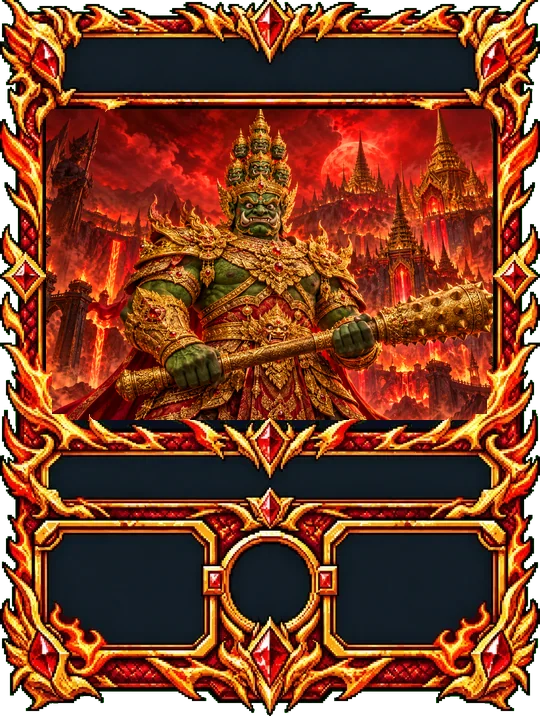
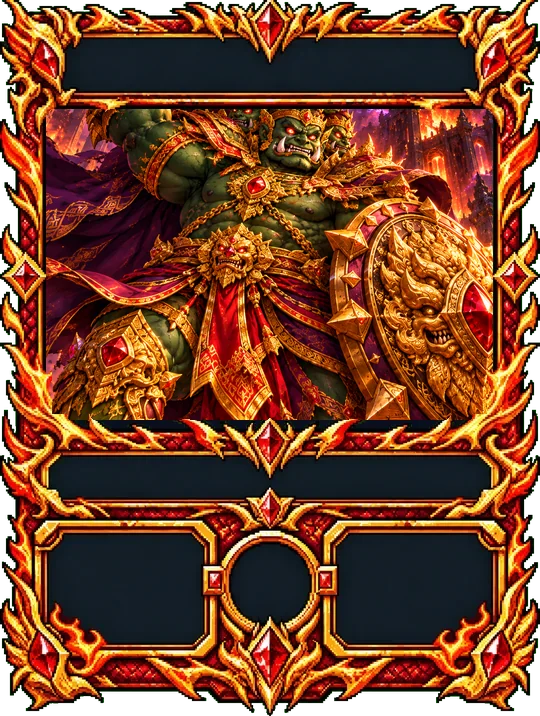
r16 (not live): new 16-frame models h27 h29 h30 h31 + card art; tools/r16sheet.py
Claude-Session: https://claude.ai/code/session_01Bp1sPxqqDbGY3tv9tHr9QV

diff --git a/tools/r16sheet.py b/tools/r16sheet.py
@@ -1,0 +1,81 @@
+# 16-frame remake (Oct 2026): new card models from GPT.
+# Sources: tools/r16_in/<id>/{idle,walk,attack,front}.png = 4x4 sheets on magenta (side views facing RIGHT), art.png = painted card art.
+# Output: spr/<id>.webp = 16 columns x 4 rows of 252x204 cells (idle, walk, attack, front), the game marks these cards f16;
+# art/<id>.webp + cards/<id>.webp through cardsheet.py's faces() when art.png exists.
+# GPT grids are not exact, so the cuts between frames are found from the empty gaps; spill from a neighbour frame is dropped,
+# and what is left is faded at the cell edge so an effect never ends in a hard line.
+import sys,os,glob,numpy as np
+from PIL import Image
+from scipy import ndimage as nd
+P='/home/claude/r16/';U=P+'tools/r16_in/'
+src=open(P+'tools/monsheet2.py').read().split("TINT={")[0];ns={};exec(src,ns);key=ns['key']
+CW,CH,BASE=252,204,196
+CARDS={'h29':('SL',158),'h30':('SL',176),'h31':('SL',160),'h27':('SL',170)}
+FIX={'h30':{'idle':{1:0,3:4}}}   # 0-based frames to replace with another frame (glitched faces)
+def depink(rgba):
+    a=rgba.astype(int);r,g,b=a[...,0],a[...,1],a[...,2]
+    pink=(r>170)&(b>g+40)&(r>g+50)&(r>=b-25)   # magenta glow left over from the background (halos, auras); indigo scales are not touched
+    a[...,2]=np.where(pink,np.minimum(b,g+10),b);a[...,0]=np.where(pink,np.maximum(r,230),r);a[...,1]=np.where(pink,np.maximum(g,(r+g)//2),g)
+    return a.astype('uint8')
+def cuts(prof,n,L):
+    sm=np.convolve(prof,np.ones(9)/9,'same');out=[0]
+    for k in range(1,n):
+        c=round(k*L/n);w=round(L/n*.18);lo,hi=c-w,c+w;out.append(lo+int(np.argmin(sm[lo:hi])))
+    out.append(L);return out
+def frames(path,mirror):
+    rgba=depink(key(Image.open(path)));al=rgba[...,3]>40;H,W=al.shape
+    rc=cuts(al.sum(1),4,H);out=[]
+    for r in range(4):
+        band=al[rc[r]:rc[r+1]];cc=cuts(band.sum(0),4,W)
+        for c in range(4):
+            x=rgba[rc[r]:rc[r+1],cc[c]:cc[c+1]].copy();m=x[...,3]>40;lab,n=nd.label(nd.binary_dilation(m,iterations=2)&m|m)
+            if n>1:
+                sz=nd.sum(m,lab,range(1,n+1));big=int(np.argmax(sz))+1;h,w=m.shape
+                for i in range(1,n+1):
+                    if i==big:continue
+                    ys,xs=np.where(lab==i);cy,cx=ys.mean(),xs.mean()
+                    edge=(xs.min()<3 and cx<w*.22) or (xs.max()>w-4 and cx>w*.78) or (ys.min()<3 and cy<h*.18) or (ys.max()>h-4 and cy>h*.85)
+                    if edge and sz[i-1]<sz[big-1]*.45:x[lab==i]=0
+            h,w=x.shape[:2];f=np.ones((h,w));E=10
+            for k in range(E):
+                v=(k+1)/(E+1);f[k,:]=np.minimum(f[k,:],v);f[h-1-k,:]=np.minimum(f[h-1-k,:],v);f[:,k]=np.minimum(f[:,k],v);f[:,w-1-k]=np.minimum(f[:,w-1-k],v)
+            x[...,3]=(x[...,3]*f).astype('uint8')
+            if mirror:x=x[:,::-1].copy()
+            out.append((r,x))
+    return out
+def bbox(c):
+    ys,xs=np.where(c[...,3]>40);return xs.min(),xs.max(),ys.min(),ys.max()
+def torso(c):
+    x0,x1,y0,y1=bbox(c);m=c[y0:y0+int((y1-y0)*.6),:,3]>40;return np.where(m)[1].mean()
+def build(id,th):
+    D=U+id+'/';rows=[frames(D+'idle.png',True),frames(D+'walk.png',True),frames(D+'attack.png',True),frames(D+'front.png',False)]
+    for nm,mp in FIX.get(id,{}).items():
+        i={'idle':0,'walk':1,'attack':2,'front':3}[nm]
+        for a,b in mp.items():rows[i][a]=rows[i][b]
+    def scale(fr):
+        bb=[bbox(c) for _,c in fr];return min(th/np.median([b[3]-b[2] for b in bb]),236/np.median([b[1]-b[0] for b in bb]))
+    side=scale(rows[1]);fsc=scale(rows[3])
+    out=Image.new('RGBA',(CW*16,CH*4),(0,0,0,0));clip=0
+    for R,fr in enumerate(rows):
+        s=fsc if R==3 else side
+        # one horizontal offset for the whole row (frame 1's torso to the middle), so a lunge still moves forward;
+        # one vertical offset per GPT row band (its median feet on the floor line), since GPT rows are not evenly placed
+        dx=CW/2-torso(fr[0][1])*s
+        feet={}
+        for g,c in fr:feet.setdefault(g,[]).append(bbox(c)[3])
+        for k,(g,c) in enumerate(fr):
+            im=Image.fromarray(c,'RGBA').resize((max(1,round(c.shape[1]*s)),max(1,round(c.shape[0]*s))),Image.LANCZOS)
+            ox=round(dx) if R!=2 else round(dx+(c.shape[1]/2-fr[0][1].shape[1]/2)*0);oy=round(BASE-(np.median(feet[g])+1)*s)
+            if R!=2:ox=round(CW/2-torso(c)*s)   # idle / walk / front stand in place: every frame centred on its own torso
+            clip=max(clip,-ox,ox+im.width-CW,-oy);t=Image.new('RGBA',(CW,CH),(0,0,0,0));t.paste(im,(ox,oy),im);out.paste(t,(k*CW,R*CH))
+    out.save(P+f'spr/{id}.webp',quality=86,method=6);print(id,'scale %.2f front %.2f clipped %dpx'%(side,fsc,max(0,clip)),os.path.getsize(P+f'spr/{id}.webp')//1024,'KB')
+cs=open(P+'tools/cardsheet.py').read();cs=cs[cs.index('def faces('):cs.index('for id,(rank,th,_) in CARDS.items()')]
+fs={'np':np,'Image':Image,'nd':nd,'P':P,'U':'/tmp/claude-0/-home-claude/faf65de1-a492-52b3-8473-ee4e7e7dcc7a/scratchpad/r16art/','glob':glob};exec('from PIL import ImageEnhance\n'+cs,fs)
+os.makedirs('/tmp/claude-0/-home-claude/faf65de1-a492-52b3-8473-ee4e7e7dcc7a/scratchpad/r16art',exist_ok=True)
+for id,(rank,th) in CARDS.items():
+    if len(sys.argv)>1 and id not in sys.argv[1:]:continue
+    if not os.path.exists(U+id+'/idle.png'):continue
+    build(id,th)
+    if os.path.exists(U+id+'/art.png'):
+        Image.open(U+id+'/art.png').save(f'/tmp/claude-0/-home-claude/faf65de1-a492-52b3-8473-ee4e7e7dcc7a/scratchpad/r16art/{id}-x-art.png');fs['faces'](id,rank)
+    else:print(id,'no card art yet - keeps the old card face')
